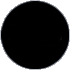
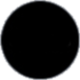
Pallukoiden kokoa fiksattu :bear:

Changed region(s): [[0.0, 0.0, 1.0, 1.0], [0.8, 0.8, 0.9143, 0.9143]]

diff --git a/src/main/webapp/style/style.css b/src/main/webapp/style/style.css
@@ -226,13 +226,15 @@ td .teksti{
 	
 /*NAVIGAATIO*/	
 #navi{
-	height: 70px;
+	height: 80px;
 	float:left;
 	width:100%;
 	margin-bottom: 100px;
 	}
 #navi li{
-	
+	height: 80px;
+	width: 80px;
+	margin-right: 5px;
 	float:left;
 	}	
 #navi ul{
@@ -244,7 +246,10 @@ td .teksti{
 	display: block;
 	background-repeat:no-repeat;
 	background-image:url('../pics/navipallo.png');
-	padding: 28px 15px 28px 7px;
+	padding-top: 33px;
+	height: 100%;
+	width: 100%;
+	text-align: center;
 	font-size:12px;
 	font-weight: bold;
 	}
